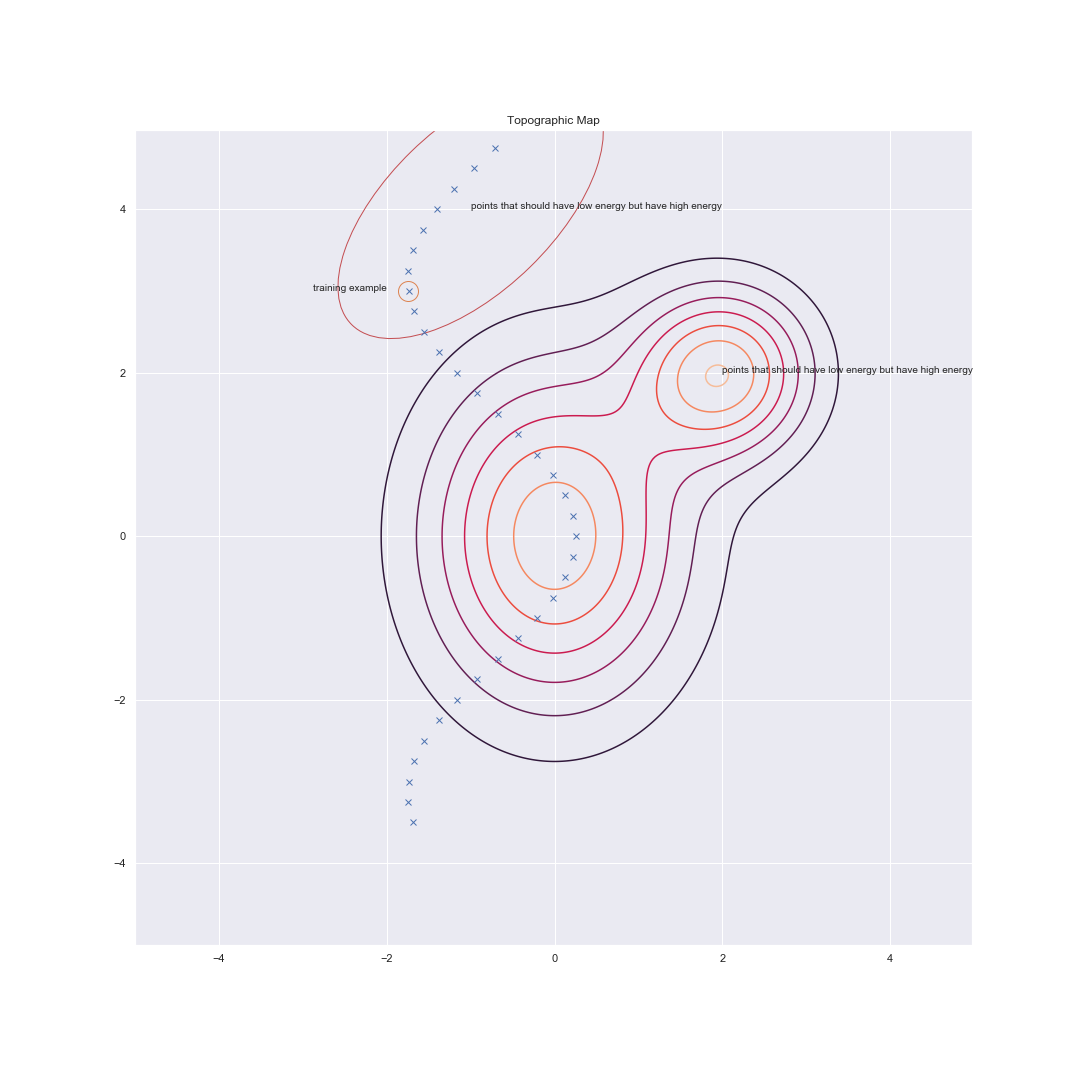
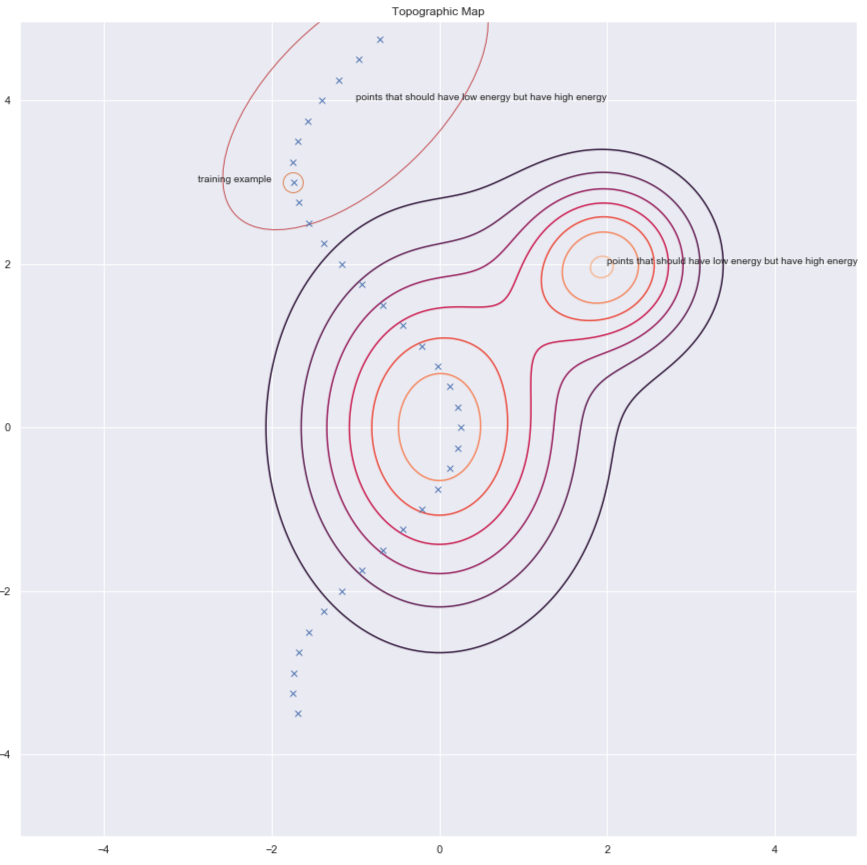
updates

diff --git a/docs/en/week07/07-2.md b/docs/en/week07/07-2.md
@@ -101,18 +101,20 @@ These can be of two types:
     2. $$F_\beta(y) = -\frac{1}{\beta}\log\int_z e^{-\beta E(y,z)}$$
 
 <center>
-<img src="{{site.baseurl}}/images/week07/07-2/3_lv_ebm.png"/><br>
+<img src="{{site.baseurl}}/images/week07/07-2/3_lv_ebm.png" width="60%"/><br>
 <b>Fig. 3</b>: Latent Variable EBM
 </center>
+
 
 ## Latent Variable EBM example: K-means
 
 K-means is a simple clustering algorithm that can also be considered as an energy based model where we are trying to model the distribution over $y$. The energy function is $E(y,z) = \Vert y-Wz \Vert^2$ where $z$ is a $1$-hot vector.
 
 <center>
-<img src="{{site.baseurl}}/images/week07/07-2/4_kmeans.png"/><br>
+<img src="{{site.baseurl}}/images/week07/07-2/4_kmeans.png" height="450px"/><br>
 <b>Fig. 4</b>: K-means example
 </center>
+
 
 Given a value of $y$ and $k$, we can do inference by figuring out which of the $k$ possible columns of $W$ minimizes the reconstruction error or energy function. To train the algorithm, we can adopt an approach where we can find $z$ to choose the column of $W$ closest to $y$ and then try to get even closer by taking a gradient step and repeat the process. However, coordinate gradient descent actually works better and faster.
 
@@ -120,9 +122,10 @@ Given a value of $y$ and $k$, we can do inference by figuring out which of the $
 In the plot below we can see the data points along the pink spiral. The black blobs surrounding this line corresponds to quadratic wells around each of the prototypes of W.
 
 <center>
-<img src="{{site.baseurl}}/images/week07/07-2/5_spiral.png"/><br>
+<img src="{{site.baseurl}}/images/week07/07-2/5_spiral.png" width="40%"/><br>
 <b>Fig. 5</b>: Spiral plot
 </center>
+
 
 Once, we learn the energy function, we can begin to address questions like:
 1. Given a point $y_1$, can we predict $y_2$?
@@ -135,9 +138,10 @@ K-means belongs to architectural methods (as opposed to contrastive methods). He
 According to Dr. Yann LeCun, everyone will be using architectural methods at some point, but at this moment, it is contrastive methods that work for images. Consider the figure below which shows us some data points and contours of the energy surface. Ideally, we want the energy surface to have lowest energy on the data manifold. Hence what we would like to do is lower the energy (i.e. value of F(x,y))around the training example, but this alone may not be enough. Hence we also raise it for the $y$'s in the region that should have high energy but has low energy.
 
 <center>
-<img src="{{site.baseurl}}/images/week07/07-2/6_contrastive_1.png"/><br>
+<img src="{{site.baseurl}}/images/week07/07-2/6_contrastive_1.png" width="70%"/><br>
 <b>Fig. 6</b>: Contrastive methods
 </center>
+
 
 There are several ways to find these candidates $y$'s that we want to raise energy for. Some examples are:
 1. Denoising Autoencoder
@@ -153,16 +157,18 @@ We will briefly discuss Denoising Autoencoders and Contrastive Divergence.
 One way of finding $y$'s to increase energy for is by randomly perturbing the training example as shown by the green arrows in the plot below.
 
 <center>
-<img src="{{site.baseurl}}/images/week07/07-2/7_contrastive_2.png"/><br>
+<img src="{{site.baseurl}}/images/week07/07-2/7_contrastive_2.png" width="70%"/><br>
 <b>Fig. 7</b>: Topographic map
 </center>
+
 
 Once we have a corrupted data point, we can push the energy up here. If we do this sufficiently many times for all the data points, the energy sample will curl up around the training examples. The following plot illustrates how the training is done.
 
 <center>
-<img src="{{site.baseurl}}/images/week07/07-2/8_training.png"/><br>
+<img src="{{site.baseurl}}/images/week07/07-2/8_training.png" height="650px"/><br>
 <b>Fig. 8</b>: Training
 </center>
+
 
 Steps for training:
 1. Take a point $y$ and corrupt it
@@ -173,9 +179,10 @@ If the DAE is properly trained, the energy grows quadratically as we move away f
 The following plot illustrates how we use the DAE.
 
 <center>
-<img src="{{site.baseurl}}/images/week07/07-2/9_dae_use.png"/><br>
+<img src="{{site.baseurl}}/images/week07/07-2/9_dae_use.png" height="650px""/><br>
 <b>Fig. 9</b>: How DAE is used
 </center>
+
 
 ### BERT
 
@@ -186,9 +193,10 @@ BERT is trained in a similar fashion, except that the space is discrete as we ar
 Contrastive Divergence presents us with a smarter way to find the $y$ point that we want to push up the energy for. We can give a random kick to our training point and then move down the energy function using gradient descent. At the end of the trajectory, we push up the energy for the point we land on. This is illustrated in the plot below using the green line.
 
 <center>
-<img src="{{site.baseurl}}/images/week07/07-2/10_contrastive_div.png"/><br>
+<img src="{{site.baseurl}}/images/week07/07-2/10_contrastive_div.png" width="70%"/><br>
 <b>Fig. 10</b>: Contrastive Divergence
 </center>
+
 
 
 1. What are some advantages of latent variable EBMs?
